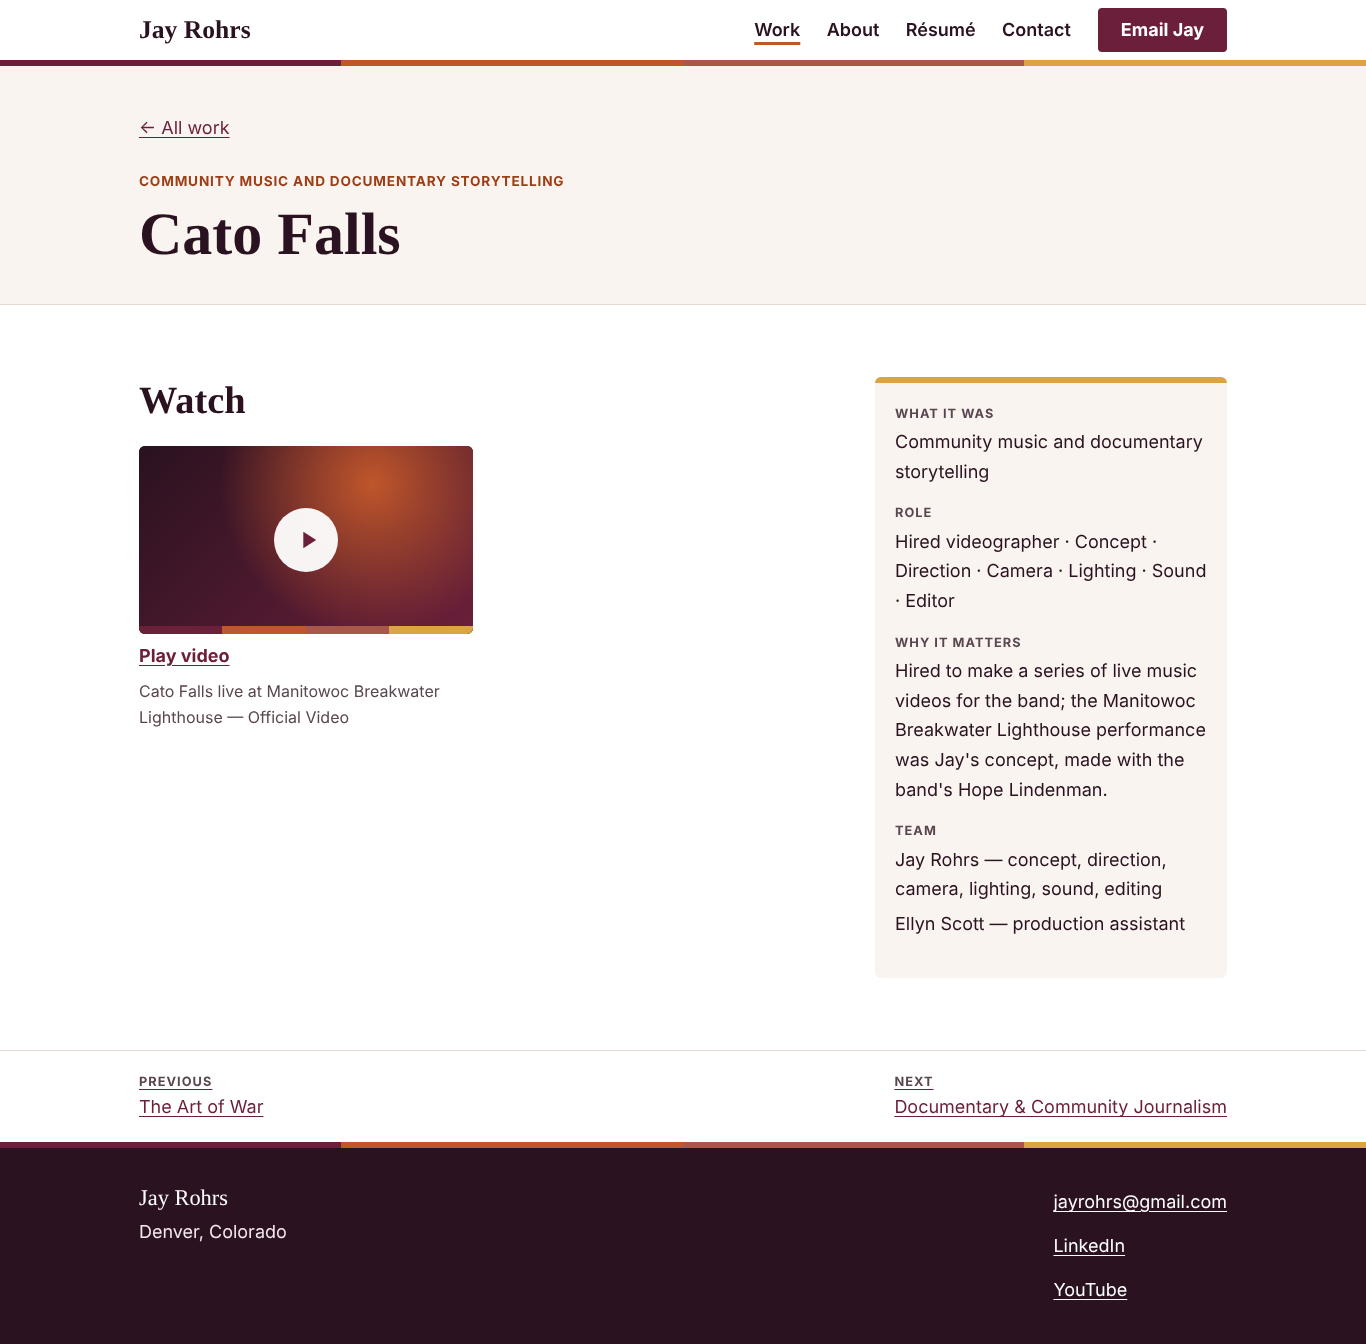
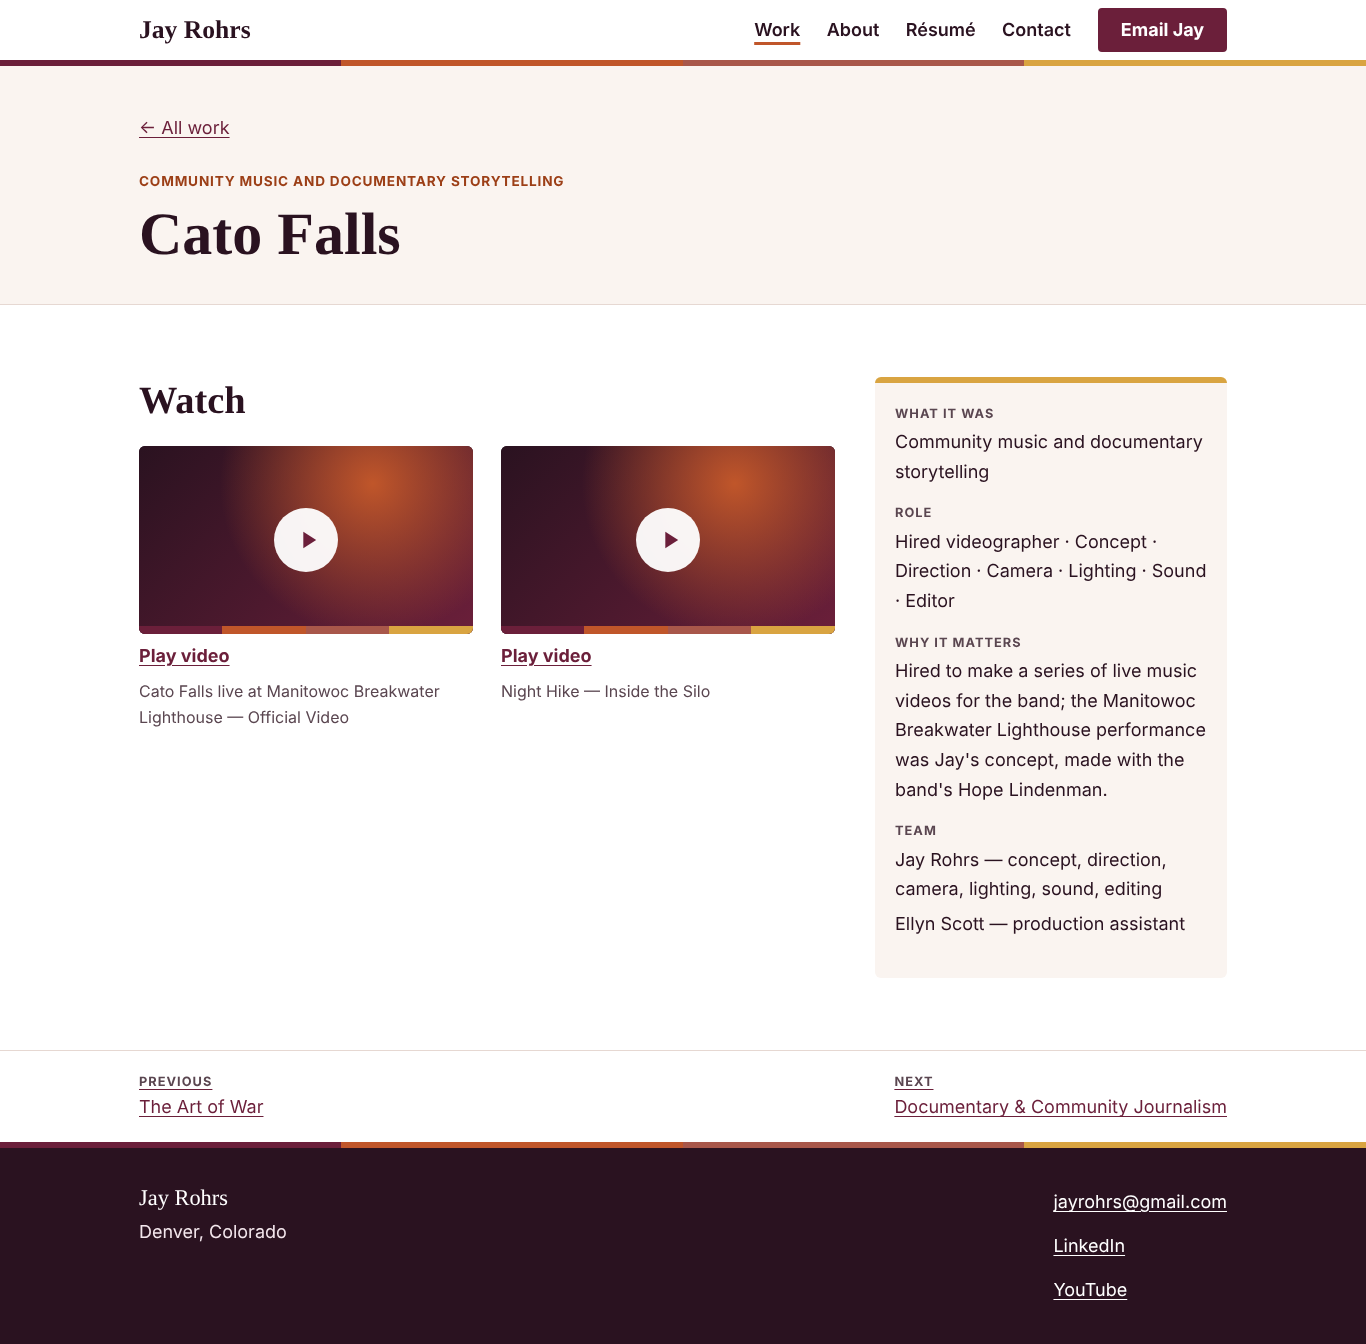
Add Night Hike — Inside the Silo to Cato Falls
Claude-Session: https://claude.ai/code/session_01GVagyfTdzkbgGPHEb9ysaz

Changed region(s): [[0.369, 0.3125, 0.6149, 0.5312], [0.4612, 0.5, 0.5227, 0.5312]]

diff --git a/projects/cato-falls.html b/projects/cato-falls.html
@@ -48,6 +48,13 @@
   </a>
   <figcaption>Cato Falls live at Manitowoc Breakwater Lighthouse — Official Video</figcaption>
 </figure>
+<figure class="video" data-video-id="a5e5YAcFaOQ" data-title="Night Hike — Inside the Silo">
+  <a class="video-link" href="https://youtu.be/a5e5YAcFaOQ">
+    <span class="video-frame"><span class="ph" aria-hidden="true"></span><span class="play" aria-hidden="true"><svg viewBox="0 0 24 24" width="28" height="28"><path d="M8 5v14l11-7z" fill="currentColor"/></svg></span></span>
+    <span class="video-cta">Play video<span class="sr">: Night Hike — Inside the Silo</span></span>
+  </a>
+  <figcaption>Night Hike — Inside the Silo</figcaption>
+</figure>
       </div>
 
     </div>

diff --git a/TODO.md b/TODO.md
@@ -7,7 +7,6 @@ Generated by `node build.mjs` from the `needs_jay` / hidden items in `content/si
 
 ## Questions
 - **The Art of War:** Comic Con year: Jay recalls about 2010 (unconfirmed) — no year shown until confirmed.
-- **Cato Falls:** 'Night Hike — Inside the Silo' link still missing.
 - **Wall Street Pillow Fight (New York, April 4, 2009)** (inside "Documentary & Community Journalism"): Jay's own video link still to recover (YouTube channel or original iMovie project on D:\JayBase-Media-Recovery). Gothamist/Gawker/CBS remain unverified and unnamed.
 - **About:** No biography paragraphs or timeline were supplied. Add them here and the About page and Home preview will show them.
 
